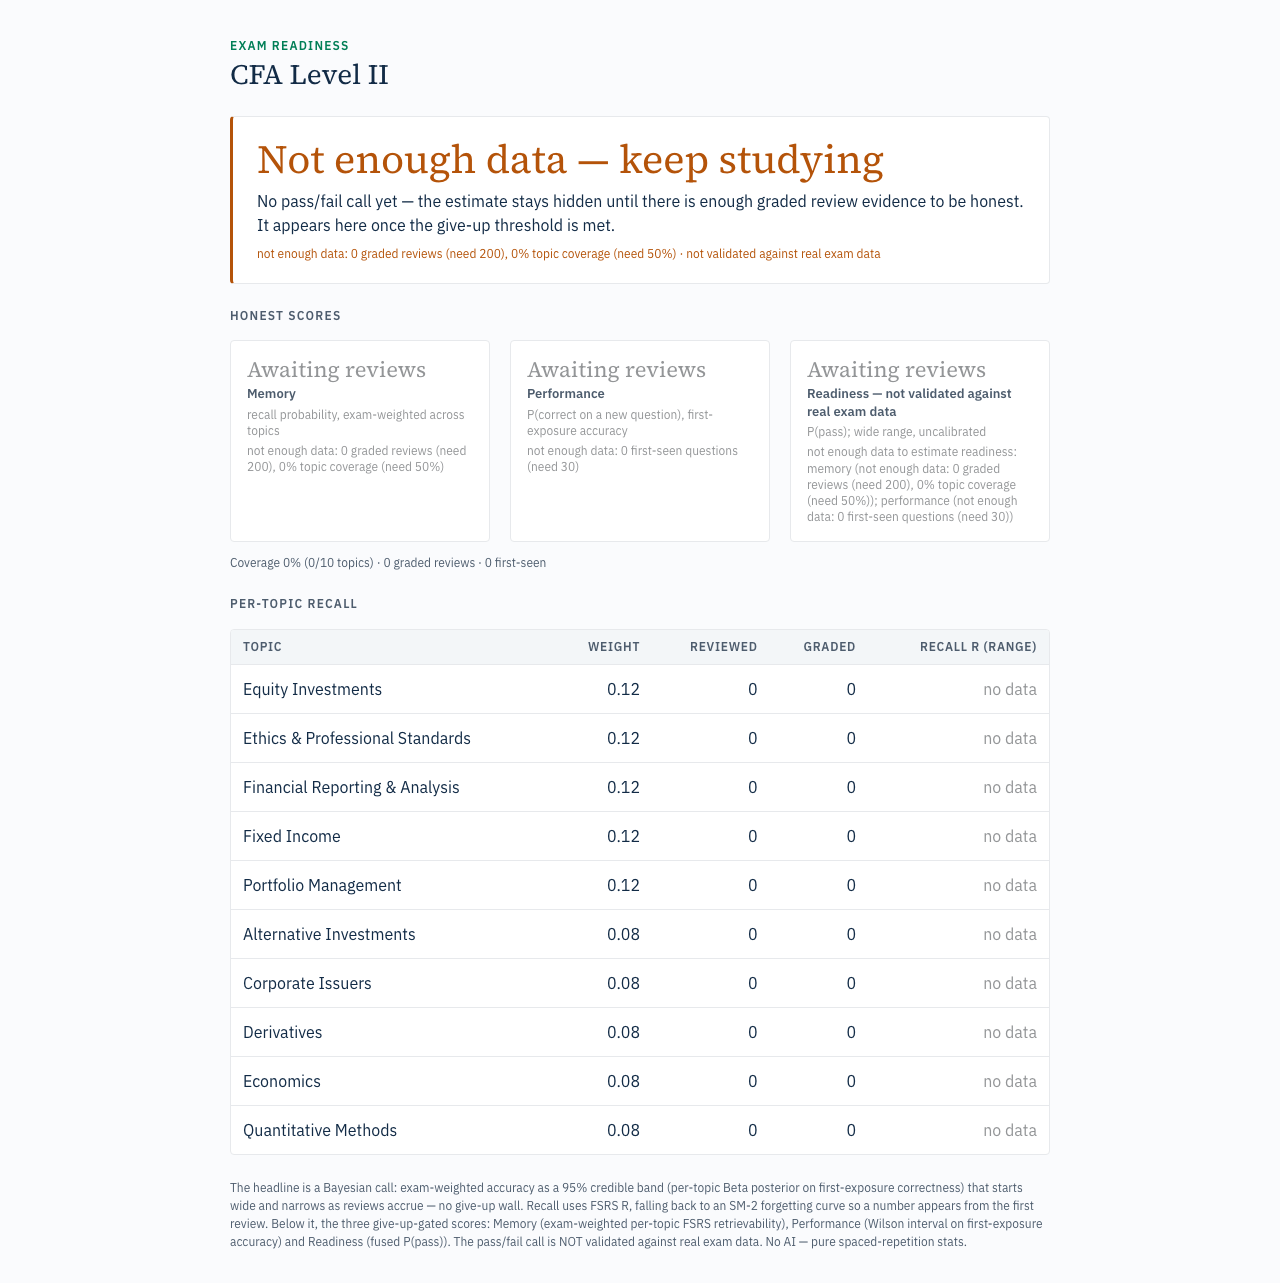
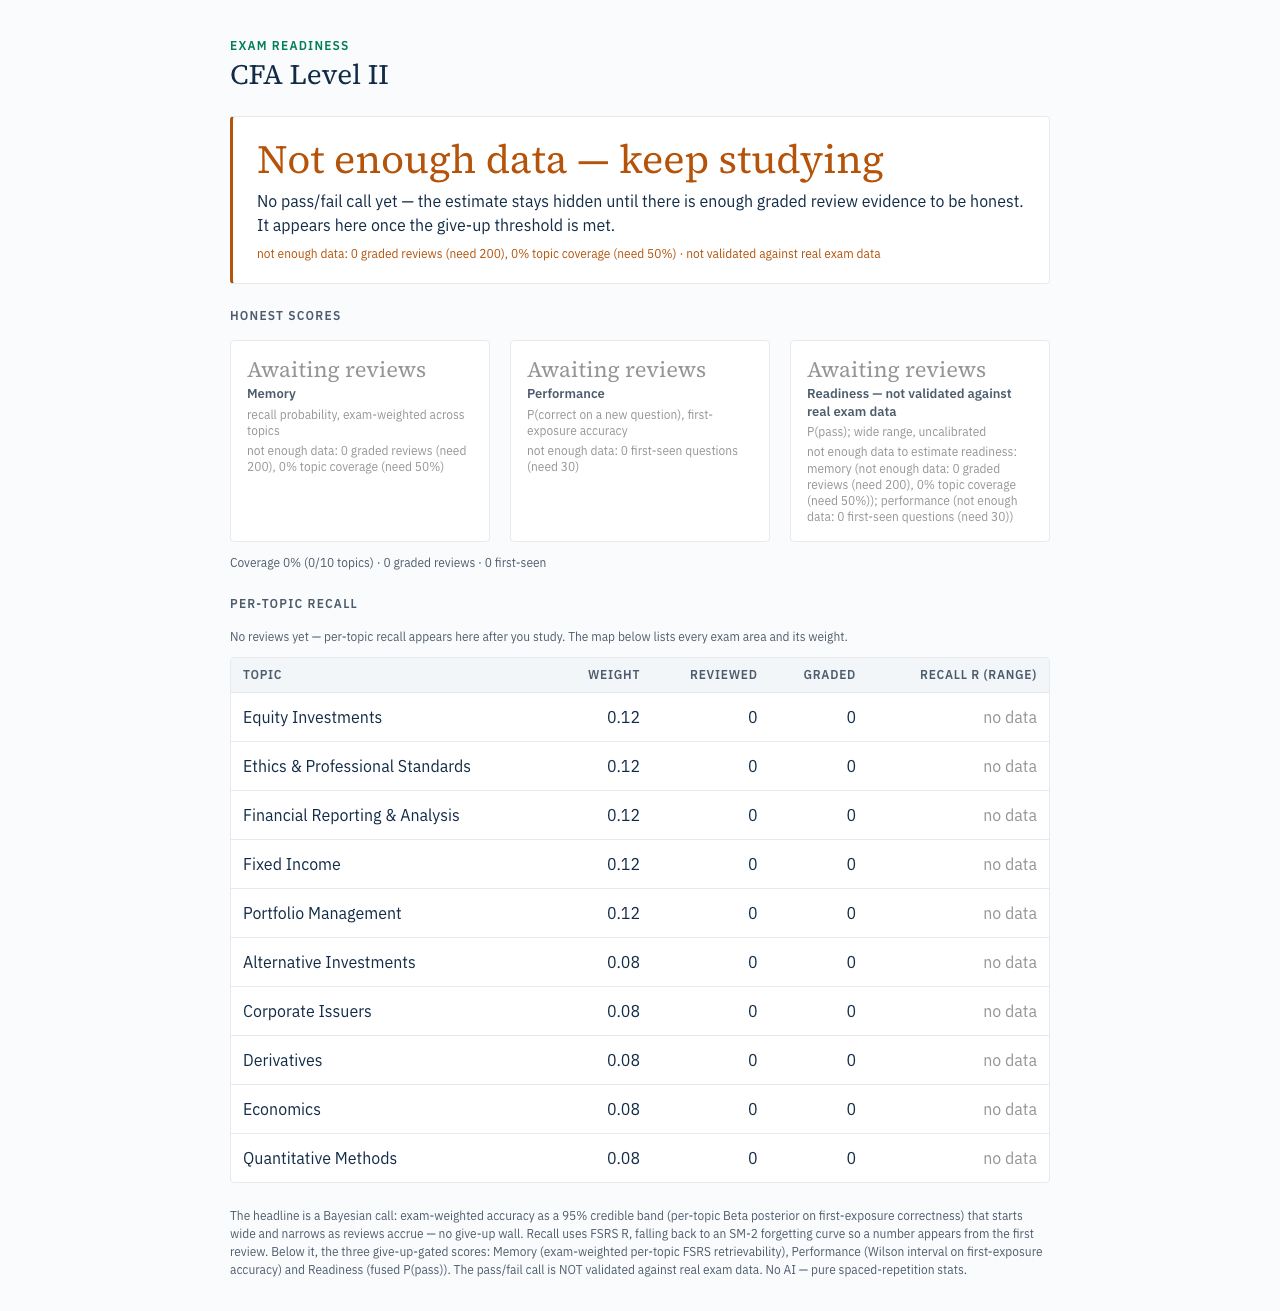
gnhf 30: Closed out the CFA-web-page portion of Phase B Pass-1 desktop by fixing all four remaining desktop MINORs (D1-4 CTA-grid asymmetry, D1-5 mixed footer affordances, D1-6 dense methodology paragraph, D2-5 flat no-data table), with a new 5-test vitest guard, re-captured before/after screenshots

diff --git a/ts/lib/cfa/pages/CfaHomePage.svelte b/ts/lib/cfa/pages/CfaHomePage.svelte
@@ -111,12 +111,15 @@ pass/fail/warn semantic triad preserved.
             >
                 AI {data.aiEnabled ? "On" : "Off"} · settings
             </button>
-            <button type="button" class="cfa-home__decks" on:click={() => go("cfa:decks")}>
-                Browse decks →
+            <button type="button" class="cfa-home__chip" on:click={() => go("cfa:decks")}>
+                Browse decks
             </button>
         </div>
 
-        <Caption tone="muted">{data.footerText}</Caption>
+        <details class="cfa-home__methodology">
+            <summary>How these scores work</summary>
+            <Caption tone="muted">{data.footerText}</Caption>
+        </details>
     </div>
 </div>
 
@@ -176,11 +179,18 @@ pass/fail/warn semantic triad preserved.
             color: cfa.$cfa-faint;
         }
 
-        // CTA grid — flat cards, calm hover, warm accent on the primary drill.
+        // CTA grid — the flagship primary drill spans the full width as a
+        // featured tile; the remaining four form a clean, symmetric 2×2 so the
+        // grid never leaves an orphaned empty cell (D1-4). Collapses to a single
+        // column on narrow widths.
         &__ctas {
             display: grid;
-            grid-template-columns: repeat(auto-fit, minmax(240px, 1fr));
+            grid-template-columns: repeat(2, minmax(0, 1fr));
             gap: cfa.space(4);
+
+            @media (max-width: 560px) {
+                grid-template-columns: minmax(0, 1fr);
+            }
         }
 
         &__cta {
@@ -210,6 +220,7 @@ pass/fail/warn semantic triad preserved.
             }
 
             &.is-primary {
+                grid-column: 1 / -1;
                 background: cfa.$cfa-accent-soft;
                 border-color: cfa.$cfa-accent;
             }
@@ -234,8 +245,9 @@ pass/fail/warn semantic triad preserved.
             gap: cfa.space(3);
         }
 
-        &__chip,
-        &__decks {
+        // Both footer controls share ONE pill affordance (D1-5) — no mixed
+        // pill-vs-text-link-with-arrow treatment.
+        &__chip {
             cursor: pointer;
             padding: cfa.space(2) cfa.space(4);
             font-family: inherit;
@@ -260,6 +272,45 @@ pass/fail/warn semantic triad preserved.
         &__chip.is-on {
             color: cfa.$cfa-pass;
             border-color: cfa.$cfa-pass;
+        }
+
+        // The dense methodology paragraph is collapsed behind a quiet disclosure
+        // (D1-6) so first-run microcopy no longer dominates the page foot; the
+        // summary is a calm, tappable one-liner.
+        &__methodology {
+            > summary {
+                cursor: pointer;
+                list-style: none;
+                font-size: cfa.$cfa-fs-meta;
+                font-weight: cfa.$cfa-weight-semibold;
+                color: cfa.$cfa-muted;
+
+                &::-webkit-details-marker {
+                    display: none;
+                }
+
+                &::before {
+                    content: "▸ ";
+                    color: cfa.$cfa-faint;
+                }
+
+                &:hover {
+                    color: cfa.$cfa-ink;
+                }
+
+                &:focus-visible {
+                    outline: 2px solid cfa.$cfa-accent;
+                    outline-offset: 2px;
+                }
+            }
+
+            &[open] > summary {
+                margin-bottom: cfa.space(2);
+
+                &::before {
+                    content: "▾ ";
+                }
+            }
         }
     }
 </style>

diff --git a/ts/lib/cfa/pages/readiness.test.ts b/ts/lib/cfa/pages/readiness.test.ts
@@ -1,0 +1,65 @@
+// Copyright: Ankitects Pty Ltd and contributors
+// License: GNU AGPL, version 3 or later; http://www.gnu.org/licenses/agpl.html
+
+import { expect, test } from "vitest";
+
+import type { TopicRow } from "../types";
+import { captionText, noRecallYet, topicRows } from "./readiness";
+
+function topic(over: Partial<TopicRow>): TopicRow {
+    return {
+        topic: "Equity Investments",
+        weight: 0.12,
+        reviewedCards: 0,
+        gradedReviews: 0,
+        recallRange: null,
+        covered: true,
+        ...over,
+    };
+}
+
+test("noRecallYet: true when every topic row has no recall data", () => {
+    const rows = topicRows([
+        topic({ topic: "Ethics & Professional Standards" }),
+        topic({ topic: "Equity Investments" }),
+    ]);
+    expect(noRecallYet(rows)).toBe(true);
+});
+
+test("noRecallYet: false once any topic has a recall range", () => {
+    const rows = topicRows([
+        topic({ topic: "Ethics & Professional Standards" }),
+        topic({ topic: "Equity Investments", recallRange: { low: 0.6, high: 0.7 } }),
+    ]);
+    expect(noRecallYet(rows)).toBe(false);
+});
+
+test("noRecallYet: false for an empty table (no rows to describe)", () => {
+    expect(noRecallYet([])).toBe(false);
+});
+
+test("topicRows: sorts weightiest first, then by topic name (deterministic tiebreak)", () => {
+    const rows = topicRows([
+        topic({ topic: "Portfolio Management", weight: 0.12 }),
+        topic({ topic: "Economics", weight: 0.09 }),
+        topic({ topic: "Equity Investments", weight: 0.12 }),
+    ]);
+    expect(rows.map((r) => r.topic)).toStrictEqual([
+        "Equity Investments",
+        "Portfolio Management",
+        "Economics",
+    ]);
+});
+
+test("captionText: omits the unfinished 'as of —' clause when no timestamp", () => {
+    const base = {
+        coveragePct: 1,
+        topicsCovered: 10,
+        topicsTotal: 10,
+        gradedReviews: 0,
+        firstExposures: 0,
+        lastReviewAt: null,
+    };
+    expect(captionText(base)).not.toContain("as of");
+    expect(captionText({ ...base, lastReviewAt: "2026-07-04" })).toContain("as of 2026-07-04");
+});

diff --git a/ts/lib/cfa/pages/CfaReadinessPage.svelte b/ts/lib/cfa/pages/CfaReadinessPage.svelte
@@ -30,6 +30,7 @@ the pass/fail/warn semantic triad preserved throughout.
         bandTone,
         bandValue,
         captionText,
+        noRecallYet,
         pct,
         readinessName,
         TOPIC_COLUMNS,
@@ -61,6 +62,7 @@ the pass/fail/warn semantic triad preserved throughout.
     ] satisfies ScoreCard[];
 
     $: rows = topicRows(data.topics);
+    $: awaitingRecall = noRecallYet(rows);
 </script>
 
 <div class="cfa-app cfa-readiness">
@@ -129,6 +131,12 @@ the pass/fail/warn semantic triad preserved throughout.
 
         <section class="cfa-readiness__block">
             <Eyebrow tone="muted">Per-topic recall</Eyebrow>
+            {#if awaitingRecall}
+                <p class="cfa-readiness__table-hint">
+                    No reviews yet — per-topic recall appears here after you study.
+                    The map below lists every exam area and its weight.
+                </p>
+            {/if}
             <DataTable
                 columns={TOPIC_COLUMNS}
                 {rows}
@@ -228,6 +236,16 @@ the pass/fail/warn semantic triad preserved throughout.
             font-size: cfa.$cfa-fs-meta;
             line-height: cfa.$cfa-lh-snug;
             color: cfa.$cfa-faint;
+        }
+
+        // A single calm hint above the coverage table when no topic has recall
+        // data yet, so a fresh deck reads as "awaiting study" rather than ten
+        // flat identical "no data" rows (D2-5).
+        &__table-hint {
+            margin: 0;
+            font-size: cfa.$cfa-fs-meta;
+            line-height: cfa.$cfa-lh-snug;
+            color: cfa.$cfa-muted;
         }
 
         // Recall cell: tabular figures, warn for low/uncovered, faint no-data.

diff --git a/ts/lib/cfa/pages/readiness.ts b/ts/lib/cfa/pages/readiness.ts
@@ -115,6 +115,16 @@ export function topicRows(topics: TopicRow[]): TopicDisplayRow[] {
         }));
 }
 
+/**
+ * True when the coverage table has topic rows but none has any recall data yet
+ * (every recall cell reads "no data"). Used to show a SINGLE calm hint line
+ * above the table on a fresh deck rather than leaving ten visually flat,
+ * identical "no data" rows with no explanation (D2-5).
+ */
+export function noRecallYet(rows: TopicDisplayRow[]): boolean {
+    return rows.length > 0 && rows.every((r) => r.recall === "no data");
+}
+
 /** The quiet coverage/graded/first-exposure caption line. The "as of …" clause
  * is omitted entirely until there is a real last-review timestamp, so a fresh
  * deck never shows an unfinished-looking "as of —" placeholder. */

diff --git a/proof/friday/UI-CRITIQUE-LOG.md b/proof/friday/UI-CRITIQUE-LOG.md
@@ -77,9 +77,9 @@ Readiness screen demonstrably opens and renders with real data.
 | D1-1 | MAJOR | 3 score cards | On abstain the cards have large dead vertical space below the give-up text; card heights look padded/empty and the third card wraps to 4 lines while the first two are short — inconsistent internal density. | **FIXED** — abstain value down-sized to a short one/two-word "Awaiting reviews" (not a 4-line headline); cards now consistent. |
 | D1-2 | MAJOR | "Not enough data" ×3 | The empty-state headline renders as a huge warn-orange serif three times, dominating the page above the exam countdown — hierarchy inversion (the loudest thing is the *absence* of data). | **FIXED** — abstain value is now a quiet, down-sized (22px) muted-grey "Awaiting reviews" with the reason in the faint sub; the verdict is said once in the hero. |
 | D1-3 | MAJOR | peach "Ethics" CTA vs warn-orange | The highlighted primary CTA (peach) shares the warn/orange family used by "Not enough data", so the same hue reads as both "primary action" and "warning" — semantic color collision. | **FIXED** — abstain now uses the `muted` grey tone (not warn); unset-exam countdown is now neutral navy so the peach CTA is the single warm accent. |
-| D1-4 | MINOR | study CTA grid | 3-then-2 card grid leaves an empty cell on the right of row 2 — asymmetric. | Balance to a 2×? or center the trailing row / promote a 5th tile. |
-| D1-5 | MINOR | AI pill vs "Browse decks →" | Two footer controls use inconsistent affordances (outline pill vs text-link-with-arrow). | Unify into one control style (both pills, or both links). |
-| D1-6 | MINOR | footer paragraph | Long, low-contrast methodology paragraph; dense first-run microcopy. | Collapse behind a "How scores work" disclosure or trim. |
+| D1-4 | MINOR | study CTA grid | 3-then-2 card grid leaves an empty cell on the right of row 2 — asymmetric. | **FIXED (iter 30)** — the flagship primary "Study Ethics" CTA now spans the full width (`grid-column: 1/-1`) as a featured tile and the remaining four form a clean, symmetric 2×2 (`repeat(2, minmax(0,1fr))`, collapses to 1 col ≤560px); no orphaned cell. Verified `pass-1/01`. |
+| D1-5 | MINOR | AI pill vs "Browse decks →" | Two footer controls use inconsistent affordances (outline pill vs text-link-with-arrow). | **FIXED (iter 30)** — both footer controls are now ONE pill affordance (`cfa-home__chip`); the "→" arrow was dropped from "Browse decks" so there is no mixed pill-vs-text-link treatment. Verified `pass-1/01`. |
+| D1-6 | MINOR | footer paragraph | Long, low-contrast methodology paragraph; dense first-run microcopy. | **FIXED (iter 30)** — the dense methodology paragraph is collapsed behind a quiet `<details>` disclosure ("▸ How these scores work"); the page foot is now a calm one-liner. Verified `pass-1/01`. |
 
 ### D2 — Exam Readiness
 | # | Severity | Element | Issue | Fix |
@@ -88,7 +88,7 @@ Readiness screen demonstrably opens and renders with real data.
 | D2-2 | MAJOR | hero + 3 cards | "Not enough data" appears 4× in loud orange on one screen (hero + 3 cards) — repetitive and alarmist for a normal first-run. | **FIXED** — said **once** in the hero; the 3 cards now show a quiet muted "Awaiting reviews" (verified in `pass-1/02`). |
 | D2-3 | MINOR | coverage caption | "as of —" renders an em-dash placeholder → looks unfinished. | **FIXED** — clause omitted when no timestamp (`captionText`). |
 | D2-4 | MINOR | per-topic table sort | The five 0.12-weight areas are not in a stable/canonical order (arbitrary tiebreak). | **FIXED** — deterministic secondary sort by topic name (`topicRows`). |
-| D2-5 | MINOR | 10 identical "no data" rows | Honest but visually flat empty table. | A single-line "No reviews yet — recall appears here after you study" hint above/within the table. |
+| D2-5 | MINOR | 10 identical "no data" rows | Honest but visually flat empty table. | **FIXED (iter 30)** — a single calm hint line ("No reviews yet — per-topic recall appears here after you study. The map below lists every exam area and its weight.") now renders above the table when no topic has recall data yet (`noRecallYet(rows)` + `cfa-readiness__table-hint`); the coverage map still lists all 10 areas + weights. Verified `pass-1/02`. |
 
 **Pass-1 desktop verdict:** the CFA web surfaces are already close to premium
 (brand serif lockup, calm palette, real coverage map). The dominant real defects
@@ -98,16 +98,26 @@ color-semantic collision (D1-1/D2-1, D1-3). **All five Pass-1 desktop MAJORs are
 now FIXED, re-captured (`pass-1/`), and re-verified** (`test-e2e` 6/6 green,
 `check:eslint`/svelte/tsc green) — the abstain state is now a calm muted-grey
 "Awaiting reviews" with the verdict stated once in the hero, and the peach
-primary CTA is the single warm accent that leads the eye. Remaining Pass-1
-desktop items are MINORs (D1-4/5/6, D2-5) + surfaces not yet captured this run:
-D3 Deadline, D4 Ethics reviewer, D6 AI Settings, D7 Connect/Logout, D8 deck
-browser, D11 chrome (Qt surfaces) + a populated (non-abstain) render of D1/D2.
+primary CTA is the single warm accent that leads the eye.
 
-### Still-TODO (desktop, later this pass / next)
+**ALL Pass-1 desktop MINORs FIXED (iter 30)** — D1-4 (CTA-grid asymmetry →
+full-width primary + clean 2×2), D1-5 (mixed footer affordances → both pills),
+D1-6 (dense methodology paragraph → `<details>` disclosure), D2-5 (flat 10-row
+"no data" table → a single calm hint line above the map). Re-captured
+(`pass-1/01` + `pass-1/02`) and re-verified: new vitest `readiness.test.ts`
+(5 tests green), `test-e2e` 3/3 (cfa_readiness_render), `check:eslint`/svelte/tsc
+green. **With this, every CFA-web-page Pass-1 desktop issue (5 MAJOR + 4 MINOR)
+is resolved** — the CFA Home + Exam Readiness web surfaces are Pass-1 complete.
+
+### Still-TODO (desktop — deferred to the escalating Pass 2/3)
+- Qt-chrome surfaces not yet captured this run: D3 Deadline, D4 Ethics reviewer,
+  D6 AI Settings, **D7 Connect/Logout (the objective's named clunky controls)**,
+  D8 deck browser, D11 chrome — via `screencapture`/`grab()`. These are the
+  native Qt shell (not the CFA web pages fixed above) and are the substance of
+  the next desktop pass.
 - Populated (real ranges + Bayesian pass/fail call) capture of D1/D2 — needs a
   reviewed collection; the Python payload path is already unit-tested (F4 /
   `bayesian_readiness`), the web render capture is pending.
-- Qt-chrome surfaces (D5–D8, D10–D12) via `screencapture`/`grab()`.
 
 ---
 

diff --git a/proof/friday/gnhf-speedrun/PROGRESS.md b/proof/friday/gnhf-speedrun/PROGRESS.md
@@ -30,7 +30,7 @@ Legend: TODO / WIP / DONE (evidence path) / BLOCKED (root cause).
 ## Phase B — UI/UX passes (≥3, escalating; both apps)
 | Pass | Desktop | Mobile | Log |
 |------|---------|--------|-----|
-| 1 (critical) | WIP (MAJORs done) | DONE (all 7 MAJORs fixed) | `UI-CRITIQUE-LOG.md` Pass 1 |
+| 1 (critical) | DONE (CFA web 5 MAJOR + 4 MINOR fixed; Qt chrome → Pass 2) | DONE (all 7 MAJORs fixed) | `UI-CRITIQUE-LOG.md` Pass 1 |
 | 2 (harsher) | TODO | TODO | |
 | 3 (ruthless) | TODO | TODO | |
 
@@ -60,9 +60,20 @@ mobile screen/state) and `proof/friday/UI-CRITIQUE-LOG.md` created.
 - **Honesty:** GPT-4o vision CRITIC is UNAVAILABLE (no `OPENAI_API_KEY`/`.env`);
   critique is a labelled structured senior-designer heuristic pass, not a
   fabricated model transcript.
-- **Still TODO this pass:** desktop MINORs (D1-4/5/6, D2-5); Qt-chrome surfaces
-  (D5–D8, D10–D12); populated (non-abstain) render; then Passes 2–3; and ALL
-  mobile passes. (Desktop Pass-1 MAJORs all resolved.)
+- **ALL Pass-1 desktop MINORs FIXED (iter 30)** — D1-4 (CTA-grid asymmetry →
+  full-width primary + clean 2×2), D1-5 (mixed footer affordances → both pills),
+  D1-6 (dense methodology paragraph → `<details>` "How these scores work"
+  disclosure), D2-5 (flat 10-row "no data" table → a calm hint line above the
+  map). New vitest `ts/lib/cfa/pages/readiness.test.ts` (5 tests green) locks
+  `noRecallYet`/`topicRows`/`captionText`; re-captured `desktop-ui/pass-1/01` +
+  `02`; `test-e2e` cfa_readiness_render 3/3, `check:eslint`/svelte/tsc green.
+  **Every CFA-web-page Pass-1 desktop issue (5 MAJOR + 4 MINOR) resolved** — the
+  CFA Home + Exam Readiness web surfaces are Pass-1 complete.
+- **Deferred to the escalating Pass 2/3:** Qt-chrome native surfaces (D3 Deadline,
+  D4 Ethics reviewer, D6 AI Settings, **D7 Connect/Logout — the objective's named
+  clunky controls**, D8 deck browser, D11 chrome) via `screencapture`; a populated
+  (non-abstain / Bayesian-call) render of D1/D2; then Pass 2 (harsher) + Pass 3
+  (ruthless) for BOTH apps.
 
 **Pass 1 mobile — started (capture + critique DONE, fixes TODO):**
 - 7-screen "before" set captured on `emulator-5554` via `adb screencap` (real